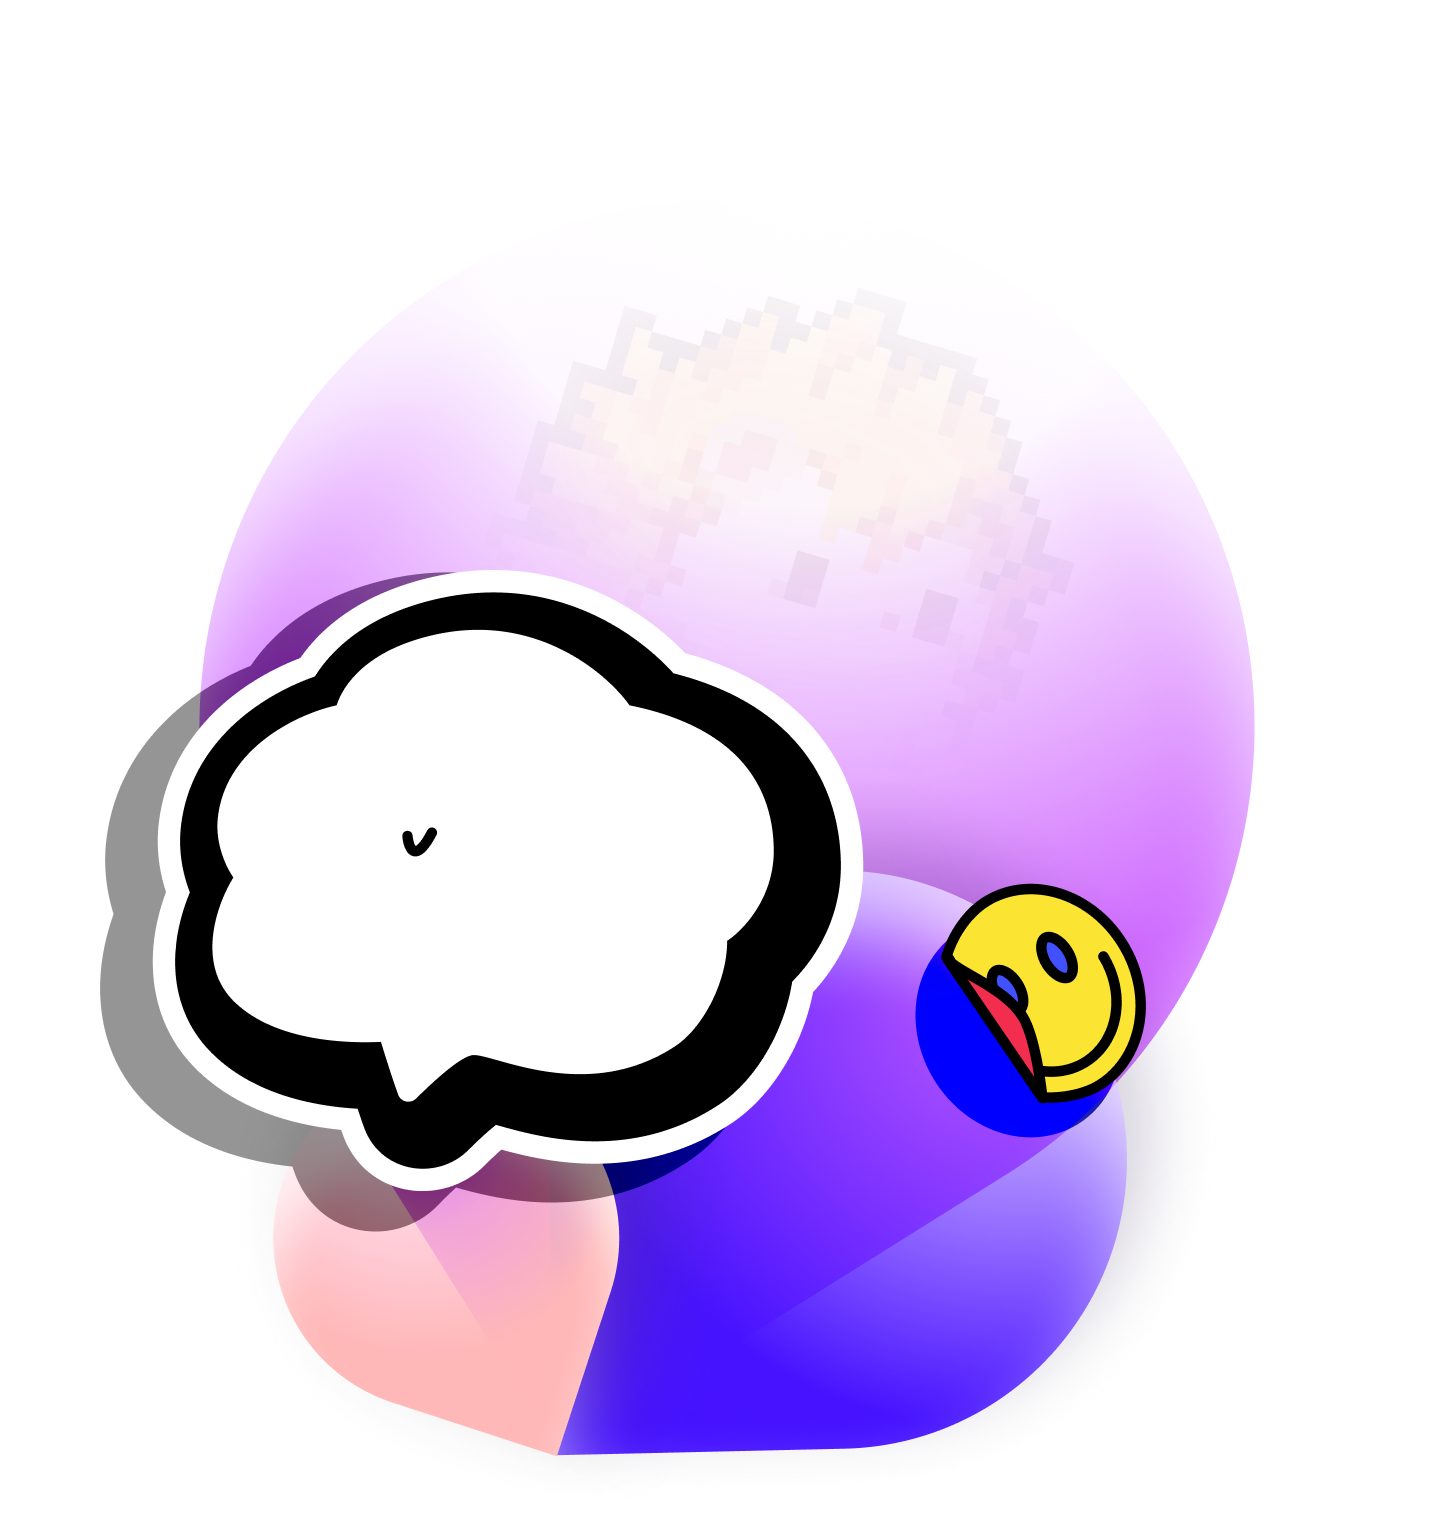
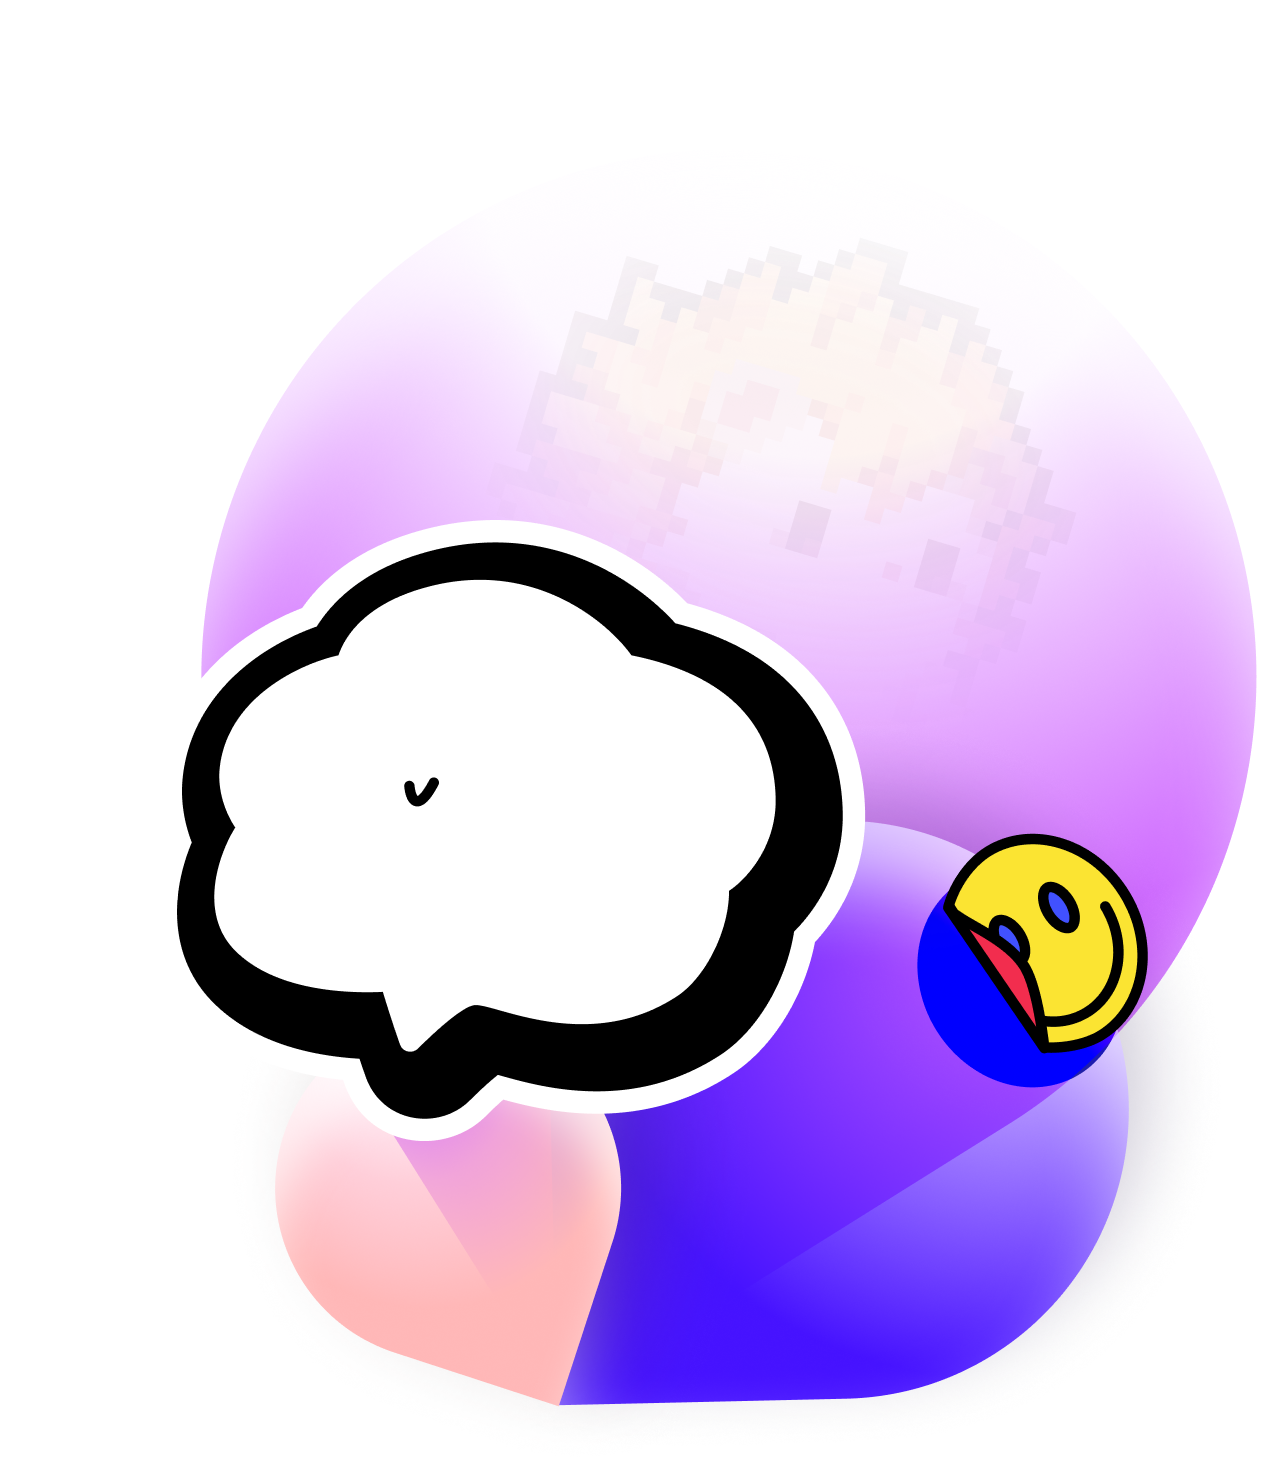
feat: save

Changed region(s): [[0.0613, 0.2485, 1.0, 0.9629], [0.2759, 0.528, 0.3373, 0.5591]]

diff --git a/app/page.tsx b/app/page.tsx
@@ -85,7 +85,7 @@ export default function Home() {
             </Link>
           ))}
         </div>
-        <div className="ml-20 flex flex-col gap-24">
+        <div className="ml-20 flex flex-col gap-[50px]">
           <img className="w-[672px]" src="/images/welcome.png" alt="" />
           <PrimaryButton
             id="action-button"
@@ -96,14 +96,38 @@ export default function Home() {
             Auction Now
           </PrimaryButton>
         </div>
-        <div className="absolute -right-16 top-0 w-[727px] h-[765px]">
+        <div className="absolute right-0 top-0 w-[636px] h-[740px]">
           <div className="eye left">
             <div className="pupil"></div>
           </div>
           <div className="eye right">
             <div className="pupil"></div>
           </div>
-          <img className="size-full" src="/images/cloud.png" alt="" />
+          <div className="relative">
+            <svg
+              xmlns="http://www.w3.org/2000/svg"
+              width="363"
+              height="330"
+              viewBox="0 0 363 330"
+              fill="none"
+              style={{ mixBlendMode: "multiply" }}
+              className="absolute top-0 left-0"
+            >
+              <g>
+                <path
+                  fill-rule="evenodd"
+                  clip-rule="evenodd"
+                  d="M337.086 224.216C335.017 235.4 331.333 245.986 326.816 255.296C319.97 269.402 309.406 284.251 295.058 294.02C261.641 316.773 227.653 317.262 203.174 313.46C193.247 311.919 184.467 309.606 177.965 307.758C175.049 310.44 171.929 313.522 169.011 316.545C148.071 338.244 108.644 333.578 97.0391 299.814C96.7536 298.983 96.4679 298.143 96.1828 297.296C91.2724 296.785 86.1012 296.042 80.8092 294.983C63.1409 291.447 39.9779 283.574 21.8566 264.717C1.33858 243.366 -1.59645 216.692 0.626878 197.011C1.68719 187.625 3.96774 178.817 6.74727 171.054C3.54118 160.848 1.55996 148.504 3.01707 135.026C6.58048 102.066 25.0764 79.355 42.854 65.4383C53.5546 57.0615 64.9782 51.0155 75.3098 46.8923C87.3734 28.8751 108.316 12.3733 141.419 4.24024C203.329 -10.9702 249.316 19.9101 271.903 44.386C299.347 52.1737 321.462 65.3035 337.284 84.1342C355.795 106.165 362.28 131.923 362.688 155.239C363.228 186.178 350.031 209.641 337.086 224.216Z"
+                  fill="#959595"
+                />
+              </g>
+            </svg>
+            <img
+              className="size-full relative z-20"
+              src="/images/cloud.png"
+              alt=""
+            />
+          </div>
         </div>
       </div>
     </Box>

diff --git a/app/globals.css b/app/globals.css
@@ -74,6 +74,7 @@ body {
 }
 
 .eye {
+  z-index: 30;
   width: 58px;
   height: 70px;
   border-radius: 50%;
@@ -87,12 +88,12 @@ body {
   background: linear-gradient(180deg, #5446ff 0%, #d277ff 50%, #ffe0c6 100%);
 }
 .eye.left {
-  left: 120px;
-  top: 370px;
+  left: 130px;
+  top: 350px;
 }
 .eye.right {
-  left: 235px;
-  top: 370px;
+  left: 245px;
+  top: 350px;
 }
 
 .pupil {
